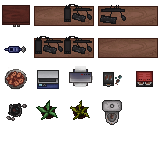
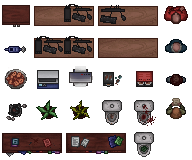
map, sprites
map ported, sprite list expanded

diff --git a/client/src/pages/PorHorror/hooks/useMap/map.ts b/client/src/pages/PorHorror/hooks/useMap/map.ts
@@ -4,14 +4,177 @@ type TPoint = { x: number, y: number };
 export type TMapObject = {
     sprite: ESprite,
     position: TPoint,
-    size: TPoint
+    size: TPoint,
+    angle: number
 };
 
 const getMap = (): TMapObject[] => {
     const map: TMapObject[] = [];
     const tools = new Tools(map);
 
-    tools.fill(1, 1, 8, 5, ESprite.toiletENV, 1, 1);
+    // точка начала, точка конца, спрайт, размер
+    //tools.fill(1, 1, 8, 5, ESprite.toiletENV, 1, 1);
+    //map.push({ sprite: ESprite.toiletENV, position: { x: 0, y: 0 }, size: { x: 1, y: 1 }, angle: 0});
+    // ПОЛЫ
+    // пол холла
+    tools.fill(-3.5, -2.5, 5, 3, ESprite.linoleumPAT, 1, 1, 0);
+    // пол деканата и проем
+    tools.fill(-3.5, 4.5, 5, 9, ESprite.linoleumPAT, 1, 1, 0);
+    map.push({ sprite: ESprite.linoleumPAT, position: { x: 0.5, y: 3.5 }, size: { x: 1, y: 1 }, angle: 0});
+    // пол математики и проем
+    tools.fill(6.5, 1.5, 12, 6, ESprite.linoleumPAT, 1, 1, 0);
+    map.push({ sprite: ESprite.linoleumPAT, position: { x: 5.5, y: 1.5 }, size: { x: 1, y: 1 }, angle: 0});
+    // пол туалета и проем
+    tools.fill(6.5, -2.5, 12, 0, ESprite.slabsPAT, 1, 1, 0);
+    map.push({ sprite: ESprite.linoleumPAT, position: { x: 5.5, y: -1.5 }, size: { x: 1, y: 1 }, angle: 0});
+    // пол библиотеки и проем
+    tools.fill(1.5, -7.5, 7, -4, ESprite.linoleumPAT, 1, 1, 0);
+    map.push({ sprite: ESprite.linoleumPAT, position: { x: 2.5, y: -3.5 }, size: { x: 1, y: 1 }, angle: 0});
+    // пол печатного салона и проем
+    tools.fill(-3.5, -7.5, 0, -4, ESprite.linoleumPAT, 1, 1, 0);
+    map.push({ sprite: ESprite.linoleumPAT, position: { x: -1.5, y: -3.5 }, size: { x: 1, y: 1 }, angle: 0});
+    // пол склада и проем
+    tools.fill(-10.5, -2.5, -5, 0, ESprite.linoleumPAT, 1, 1, 0);
+    map.push({ sprite: ESprite.linoleumPAT, position: { x: -4.5, y: -1.5 }, size: { x: 1, y: 1 }, angle: 0});
+    // пол паскаля и проем
+    tools.fill(-10.5, 1.5, -5, 7, ESprite.linoleumPAT, 1, 1, 0);
+    map.push({ sprite: ESprite.linoleumPAT, position: { x: -4.5, y: 1.5 }, size: { x: 1, y: 1 }, angle: 0});
+
+    // СТЕНЫ
+    // ряды стен
+    tools.fill(-3.5, 9.5, 5, 10, ESprite.oneSideBlockWLL, 1, 1, 90);
+    tools.fill(5.5, 6.5, 6, 9, ESprite.oneSideBlockWLL, 1, 1);
+    tools.fill(5.5, 4.5, 6, 6, ESprite.twoSidesBlockWLL, 1, 1, 90);
+    tools.fill(2.5, 3.5, 5, 4, ESprite.twoSidesBlockWLL, 1, 1);
+    tools.fill(-3.5, 3.5, -1, 4, ESprite.twoSidesBlockWLL, 1, 1);
+    tools.fill(-4.5, 4.5, -4, 7, ESprite.twoSidesBlockWLL, 1, 1, 90);
+    tools.fill(-4.5, 7.5, -4, 9, ESprite.oneSideBlockWLL, 1, 1, 180);
+    tools.fill(-10.5, 7.5, -5, 8, ESprite.oneSideBlockWLL, 1, 1, 90);
+    tools.fill(-11.5, 1.5, -11, 7, ESprite.oneSideBlockWLL, 1, 1, 180);
+    tools.fill(-10.5, 0.5, -5, 1, ESprite.twoSidesBlockWLL, 1, 1);
+    tools.fill(-11.5, -2.5, -11, 0, ESprite.oneSideBlockWLL, 1, 1);
+    tools.fill(-10.5, -3.5, -5, -3, ESprite.oneSideBlockWLL, 1, 1, -90);
+    tools.fill(-4.5, -7.5, -4, -4, ESprite.oneSideBlockWLL, 1, 1, -180);
+    tools.fill(-3.5, -8.5, 0, -8, ESprite.oneSideBlockWLL, 1, 1, -90);
+    tools.fill(0.5, -7.5, 1, -4, ESprite.twoSidesBlockWLL, 1, 1, 90);
+    tools.fill(1.5, -8.5, 7, -8, ESprite.oneSideBlockWLL, 1, 1, -90);
+    tools.fill(7.5, -7.5, 8, -4, ESprite.oneSideBlockWLL, 1, 1);
+    tools.fill(7.5, -3.5, 12, -3, ESprite.oneSideBlockWLL, 1, 1, -90);
+    tools.fill(12.5, -2.5, 13, 0, ESprite.oneSideBlockWLL, 1, 1);
+    tools.fill(6.5, 0.5, 12, 1, ESprite.twoSidesBlockWLL, 1, 1);
+    tools.fill(12.5, 1.5, 13, 6, ESprite.oneSideBlockWLL, 1, 1);
+    tools.fill(6.5, 6.5, 12, 7, ESprite.oneSideBlockWLL, 1, 1, 90);
+    // колонны
+    map.push({ sprite: ESprite.allSidesBlockWLL, position: { x: -1.5, y: 0.5 }, size: { x: 1, y: 1 }, angle: 0});
+    map.push({ sprite: ESprite.allSidesBlockWLL, position: { x: -1.5, y: -1.5 }, size: { x: 1, y: 1 }, angle: 0});
+    map.push({ sprite: ESprite.allSidesBlockWLL, position: { x: 2.5, y: -1.5 }, size: { x: 1, y: 1 }, angle: 0});
+    map.push({ sprite: ESprite.allSidesBlockWLL, position: { x: 2.5, y: 0.5 }, size: { x: 1, y: 1 }, angle: 0});
+    // тройники
+    map.push({ sprite: ESprite.threeSidesBlockWLL, position: { x: -2.5, y: -3.5 }, size: { x: 1, y: 1 }, angle: -90});
+    map.push({ sprite: ESprite.threeSidesBlockWLL, position: { x: -4.5, y: -2.5 }, size: { x: 1, y: 1 }, angle: 0});
+    map.push({ sprite: ESprite.threeSidesBlockWLL, position: { x: -0.5, y: -3.5 }, size: { x: 1, y: 1 }, angle: 90});
+    map.push({ sprite: ESprite.threeSidesBlockWLL, position: { x: 1.5, y: -3.5 }, size: { x: 1, y: 1 }, angle: -90});
+    map.push({ sprite: ESprite.threeSidesBlockWLL, position: { x: 3.5, y: -3.5 }, size: { x: 1, y: 1 }, angle: 90});
+    map.push({ sprite: ESprite.threeSidesBlockWLL, position: { x: 5.5, y: -2.5 }, size: { x: 1, y: 1 }, angle: 0});
+    map.push({ sprite: ESprite.threeSidesBlockWLL, position: { x: 5.5, y: -0.5 }, size: { x: 1, y: 1 }, angle: 180});
+    map.push({ sprite: ESprite.threeSidesBlockWLL, position: { x: -0.5, y: 3.5 }, size: { x: 1, y: 1 }, angle: -90});
+    map.push({ sprite: ESprite.threeSidesBlockWLL, position: { x: 1.5, y: 3.5 }, size: { x: 1, y: 1 }, angle: 90});
+    map.push({ sprite: ESprite.threeSidesBlockWLL, position: { x: 5.5, y: 2.5 }, size: { x: 1, y: 1 }, angle: 180});
+    map.push({ sprite: ESprite.threeSidesBlockWLL, position: { x: -4.5, y: -0.5 }, size: { x: 1, y: 1 }, angle: 180});
+    map.push({ sprite: ESprite.threeSidesBlockWLL, position: { x: -4.5, y: 2.5 }, size: { x: 1, y: 1 }, angle: 180});
+    // внешние углы
+    map.push({ sprite: ESprite.cornerBlockWLL, position: { x: -4.5, y: 0.5 }, size: { x: 1, y: 1 }, angle: 0});
+    map.push({ sprite: ESprite.cornerBlockWLL, position: { x: 5.5, y: 0.5 }, size: { x: 1, y: 1 }, angle: 90});
+    // односторонки
+    map.push({ sprite: ESprite.oneSideBlockWLL, position: { x: 5.5, y: 3.5 }, size: { x: 1, y: 1 }, angle: 0});
+    map.push({ sprite: ESprite.oneSideBlockWLL, position: { x: 0.5, y: -3.5 }, size: { x: 1, y: 1 }, angle: -90});
+    map.push({ sprite: ESprite.oneSideBlockWLL, position: { x: -4.5, y: 3.5 }, size: { x: 1, y: 1 }, angle: 0});
+    map.push({ sprite: ESprite.oneSideBlockWLL, position: { x: 5.5, y: -3.5 }, size: { x: 1, y: 1 }, angle: 90});
+    // двусторонки
+    map.push({ sprite: ESprite.twoSidesBlockWLL, position: { x: -3.5, y: -3.5 }, size: { x: 1, y: 1 }, angle: 0});
+    map.push({ sprite: ESprite.twoSidesBlockWLL, position: { x: 4.5, y: -3.5 }, size: { x: 1, y: 1 }, angle: 0});
+    map.push({ sprite: ESprite.twoSidesBlockWLL, position: { x: 6.5, y: -3.5 }, size: { x: 1, y: 1 }, angle: 0});
+    // тонкие стены
+    map.push({ sprite: ESprite.longSidesWLL, position: { x: 8.5, y: -2.5 }, size: { x: 0.25, y: 1 }, angle: 0});
+    map.push({ sprite: ESprite.threeSidesWLL, position: { x: 8.5, y: -1.5 }, size: { x: 0.25, y: 1 }, angle: 0});
+    map.push({ sprite: ESprite.longSidesWLL, position: { x: 10.5, y: -2.5 }, size: { x: 0.25, y: 1 }, angle: 0});
+    map.push({ sprite: ESprite.threeSidesWLL, position: { x: 10.5, y: -1.5 }, size: { x: 0.25, y: 1 }, angle: 0});
+    // внутренние углы (обязательно поверх других стен)
+    map.push({ sprite: ESprite.innerCornerWLL, position: { x: -4.5, y: -8.5 }, size: { x: 1, y: 1 }, angle: -90});
+    map.push({ sprite: ESprite.innerCornerWLL, position: { x: -4.5, y: -3.5 }, size: { x: 1, y: 1 }, angle: 0});
+    map.push({ sprite: ESprite.innerCornerWLL, position: { x: -4.5, y: -3.5 }, size: { x: 1, y: 1 }, angle: -90});
+    map.push({ sprite: ESprite.innerCornerWLL, position: { x: -4.5, y: -3.5 }, size: { x: 1, y: 1 }, angle: 180});
+    map.push({ sprite: ESprite.innerCornerWLL, position: { x: -11.5, y: -3.5 }, size: { x: 1, y: 1 }, angle: -90});
+    map.push({ sprite: ESprite.innerCornerWLL, position: { x: -11.5, y: 0.5 }, size: { x: 1, y: 1 }, angle: -90});
+    map.push({ sprite: ESprite.innerCornerWLL, position: { x: -11.5, y: 0.5 }, size: { x: 1, y: 1 }, angle: 180});
+    map.push({ sprite: ESprite.innerCornerWLL, position: { x: -11.5, y: 7.5 }, size: { x: 1, y: 1 }, angle: 180});
+    map.push({ sprite: ESprite.innerCornerWLL, position: { x: -4.5, y: 7.5 }, size: { x: 1, y: 1 }, angle: 90});
+    map.push({ sprite: ESprite.innerCornerWLL, position: { x: -4.5, y: 9.5 }, size: { x: 1, y: 1 }, angle: 180});
+    map.push({ sprite: ESprite.innerCornerWLL, position: { x: 5.5, y: 9.5 }, size: { x: 1, y: 1 }, angle: 90});
+    map.push({ sprite: ESprite.innerCornerWLL, position: { x: 5.5, y: 6.5 }, size: { x: 1, y: 1 }, angle: 180});
+    map.push({ sprite: ESprite.innerCornerWLL, position: { x: 12.5, y: 6.5 }, size: { x: 1, y: 1 }, angle: 90});
+    map.push({ sprite: ESprite.innerCornerWLL, position: { x: 12.5, y: 0.5 }, size: { x: 1, y: 1 }, angle: 0});
+    map.push({ sprite: ESprite.innerCornerWLL, position: { x: 12.5, y: 0.5 }, size: { x: 1, y: 1 }, angle: 90});
+    map.push({ sprite: ESprite.innerCornerWLL, position: { x: 12.5, y: -3.5 }, size: { x: 1, y: 1 }, angle: 0});
+    map.push({ sprite: ESprite.innerCornerWLL, position: { x: 7.5, y: -3.5 }, size: { x: 1, y: 1 }, angle: 90});
+    map.push({ sprite: ESprite.innerCornerWLL, position: { x: 7.5, y: -8.5 }, size: { x: 1, y: 1 }, angle: 0});
+    map.push({ sprite: ESprite.innerCornerWLL, position: { x: 0.5, y: -8.5 }, size: { x: 1, y: 1 }, angle: 0});
+    map.push({ sprite: ESprite.innerCornerWLL, position: { x: 0.5, y: -8.5 }, size: { x: 1, y: 1 }, angle: -90});
+    map.push({ sprite: ESprite.innerCornerWLL, position: { x: 0.5, y: -3.5 }, size: { x: 1, y: 1 }, angle: 90});
+    map.push({ sprite: ESprite.innerCornerWLL, position: { x: 0.5, y: -3.5 }, size: { x: 1, y: 1 }, angle: 180});
+    map.push({ sprite: ESprite.innerCornerWLL, position: { x: 5.5, y: -3.5 }, size: { x: 1, y: 1 }, angle: 0});
+    map.push({ sprite: ESprite.innerCornerWLL, position: { x: 5.5, y: -3.5 }, size: { x: 1, y: 1 }, angle: -90});
+    map.push({ sprite: ESprite.innerCornerWLL, position: { x: 5.5, y: 0.5 }, size: { x: 1, y: 1 }, angle: 180});
+    map.push({ sprite: ESprite.innerCornerWLL, position: { x: 5.5, y: 3.5 }, size: { x: 1, y: 1 }, angle: 0});
+    map.push({ sprite: ESprite.innerCornerWLL, position: { x: 5.5, y: 3.5 }, size: { x: 1, y: 1 }, angle: 90});
+    // СТАТИЧЕСКИЕ ОБЪЕКТЫ
+    // паскаль
+    map.push({ sprite: ESprite.tableLeftENV, position: { x: -10, y: 5.5 }, size: { x: 2, y: 1 }, angle: 180});
+    map.push({ sprite: ESprite.tableBothENV, position: { x: -9, y: 4.5 }, size: { x: 2, y: 1 }, angle: 0});
+    map.push({ sprite: ESprite.tableBothENV, position: { x: -9, y: 2.5 }, size: { x: 2, y: 1 }, angle: 0});
+    map.push({ sprite: ESprite.tableBothENV, position: { x: -6, y: 4.5 }, size: { x: 2, y: 1 }, angle: 0});
+    map.push({ sprite: ESprite.tableBothENV, position: { x: -6, y: 2.5 }, size: { x: 2, y: 1 }, angle: 0});
+    // склад
+    map.push({ sprite: ESprite.tableEmptyENV, position: { x: -6.5, y: -1 }, size: { x: 2, y: 1 }, angle: 90});
+    map.push({ sprite: ESprite.tableEmptyENV, position: { x: -8.5, y: -2 }, size: { x: 2, y: 1 }, angle: 90});
+    map.push({ sprite: ESprite.tableEmptyENV, position: { x: -10.5, y: -1 }, size: { x: 2, y: 1 }, angle: 90});
+    map.push({ sprite: ESprite.blackCoffieMachineENV, position: { x: -10.5, y: -0.5 }, size: { x: 1, y: 1 }, angle: 90});
+    // печатный салон
+    map.push({ sprite: ESprite.tableEmptyENV, position: { x: -3, y: -6.5 }, size: { x: 2, y: 1 }, angle: 0});
+    map.push({ sprite: ESprite.tableEmptyENV, position: { x: -0.5, y: -6 }, size: { x: 2, y: 1 }, angle: 90});
+    map.push({ sprite: ESprite.xeroxENV, position: { x: -0.5, y: -6.5 }, size: { x: 1, y: 1 }, angle: 90});
+    map.push({ sprite: ESprite.printerENV, position: { x: -2.5, y: -6.5 }, size: { x: 1, y: 1 }, angle: 0});
+    map.push({ sprite: ESprite.printerENV, position: { x: -3.5, y: -6.5 }, size: { x: 1, y: 1 }, angle: 0});
+    map.push({ sprite: ESprite.bookShelf2ENV, position: { x: -3.5, y: -5 }, size: { x: 2, y: 1 }, angle: 90});
+    // библиотека
+    map.push({ sprite: ESprite.bookShelf1ENV, position: { x: 6.5, y: -7 }, size: { x: 2, y: 1 }, angle: -90});
+    map.push({ sprite: ESprite.bookShelf1ENV, position: { x: 4.5, y: -6 }, size: { x: 2, y: 1 }, angle: 90});
+    map.push({ sprite: ESprite.bookShelf1ENV, position: { x: 2.5, y: -7 }, size: { x: 2, y: 1 }, angle: 90});
+    // туалет
+    map.push({ sprite: ESprite.toiletENV, position: { x: 7.5, y: -2.5 }, size: { x: 1, y: 1 }, angle: 180});
+    map.push({ sprite: ESprite.gradeBooksToiletENV, position: { x: 9.5, y: -2.5 }, size: { x: 1, y: 1 }, angle: 180});
+    map.push({ sprite: ESprite.bloodyToiletENV, position: { x: 11.5, y: -2.5 }, size: { x: 1, y: 1 }, angle: 180});
+    map.push({ sprite: ESprite.trashCanENV, position: { x: 6.5, y: -0.5 }, size: { x: 1, y: 1 }, angle: 0});
+    // математика
+    map.push({ sprite: ESprite.tableEmptyENV, position: { x: 7, y: 2.5 }, size: { x: 2, y: 1 }, angle: 0});
+    map.push({ sprite: ESprite.tableEmptyENV, position: { x: 7, y: 4.5 }, size: { x: 2, y: 1 }, angle: 0});
+    map.push({ sprite: ESprite.tableEmptyENV, position: { x: 10, y: 2.5 }, size: { x: 2, y: 1 }, angle: 0});
+    map.push({ sprite: ESprite.tableEmptyENV, position: { x: 10, y: 4.5 }, size: { x: 2, y: 1 }, angle: 0});
+    map.push({ sprite: ESprite.cookiesENV, position: { x: 6.5, y: 2.5 }, size: { x: 1, y: 1 }, angle: 0});
+    // деканат
+    map.push({ sprite: ESprite.tableEmptyENV, position: { x: -1, y: 4.5 }, size: { x: 2, y: 1 }, angle: 0});
+    map.push({ sprite: ESprite.tableEmptyENV, position: { x: 0, y: 6.5 }, size: { x: 2, y: 1 }, angle: 0});
+    map.push({ sprite: ESprite.tableLeftENV, position: { x: 0, y: 7.5 }, size: { x: 2, y: 1 }, angle: 180});
+    map.push({ sprite: ESprite.tableEmptyENV, position: { x: 1.5, y: 7 }, size: { x: 2, y: 1 }, angle: 90});
+    map.push({ sprite: ESprite.bookShelf2ENV, position: { x: 4, y: 8.5 }, size: { x: 2, y: 1 }, angle: 0});
+    map.push({ sprite: ESprite.wardrobeENV, position: { x: -3.5, y: 8.5 }, size: { x: 1, y: 1 }, angle: 0});
+    map.push({ sprite: ESprite.wardrobeENV, position: { x: -2.5, y: 8.5 }, size: { x: 1, y: 1 }, angle: 0});
+    // нпс
+    map.push({ sprite: ESprite.nadezhdaENV, position: { x: 0.5, y: 8.5 }, size: { x: 1, y: 1 }, angle: 180});
+    map.push({ sprite: ESprite.fizrukENV, position: { x: -5.5, y: -0.5 }, size: { x: 1, y: 1 }, angle: 180});
+    map.push({ sprite: ESprite.allaENV, position: { x: 9.5, y: 5.5 }, size: { x: 1, y: 1 }, angle: 180});
+    map.push({ sprite: ESprite.pascalENV, position: { x: -9.5, y: 6.5 }, size: { x: 1, y: 1 }, angle: 180});
+
 
     return map;
 };

diff --git a/client/src/game/resources/sprites.ts b/client/src/game/resources/sprites.ts
@@ -18,6 +18,15 @@ export enum ESprite {
     potPlantENV = 'potPlantENV',
     dryPotPlantENV = 'dryPotPlantENV',
     toiletENV = 'toiletENV',
+    gradeBooksToiletENV = 'gradeBooksToiletENV',
+    bloodyToiletENV = 'bloodyToiletENV',
+    bookShelf1ENV = 'bookShelf1ENV',
+    bookShelf2ENV = 'bookShelf2ENV',
+    // env npcs
+    nadezhdaENV = 'nadezhdaENV',
+    allaENV = 'allaENV',
+    fizrukENV = 'fizrukENV',
+    pascalENV = 'pascalENV',
     // ITEMS
     cookieITM = 'cookieITM',
     horizPhotoITM = 'horizPhotoITM',
@@ -29,17 +38,19 @@ export enum ESprite {
     // PATTERNS
     linoleumPAT = 'linoleumPAT',
     slabsPAT = 'slabsPAT',
-    // WALLS - walls
+    // WALLS - small
     allSidesWLL = 'allSidesWLL',
     longSidesWLL = 'longSidesWLL',
     threeSidesWLL = 'threeSidesWLL',
     longSideWLL = 'longSideWLL',
     cornerWLL = 'cornerWLL',
-    // WALLS - columns
-    allSidesColumnWLL = 'allSidesColumnWLL',
-    cornerColumnWLL = 'cornerColumnWLL',
-    threeSidesColumnWLL = 'threeSidesColumnWLL'
-
+    // WALLS - blocks
+    allSidesBlockWLL = 'allSidesColumnWLL',
+    cornerBlockWLL = 'cornerColumnWLL',
+    threeSidesBlockWLL = 'threeSidesColumnWLL',
+    twoSidesBlockWLL = 'twoSidesBlockWLL',
+    oneSideBlockWLL = 'oneSideBlockWLL',
+    innerCornerWLL = 'innerCornerWLL'
 }
 
 export const getSprite = (image: EImage, offset: number[], size: number[]) => ({
@@ -66,6 +77,15 @@ export const sprites = {
     [ESprite.potPlantENV]: getSprite(EImage.environment, [32, 96], [32, 32]),
     [ESprite.dryPotPlantENV]: getSprite(EImage.environment, [64, 96], [32, 32]),
     [ESprite.toiletENV]: getSprite(EImage.environment, [96, 96], [32, 32]),
+    [ESprite.gradeBooksToiletENV]: getSprite(EImage.environment, [128, 128], [32, 32]),
+    [ESprite.bloodyToiletENV]: getSprite(EImage.environment, [128, 96], [32, 32]),
+    [ESprite.bookShelf1ENV]: getSprite(EImage.environment, [0, 128], [64, 32]),
+    [ESprite.bookShelf2ENV]: getSprite(EImage.environment, [64, 128], [64, 32]),
+    // ENV - NPCs
+    [ESprite.fizrukENV]: getSprite(EImage.environment, [160, 0], [32, 32]),
+    [ESprite.pascalENV]: getSprite(EImage.environment, [160, 32], [32, 32]),
+    [ESprite.nadezhdaENV]: getSprite(EImage.environment, [160, 64], [32, 32]),
+    [ESprite.allaENV]: getSprite(EImage.environment, [160, 96], [32, 32]),
     // ITEMS
     [ESprite.horizPhotoITM]: getSprite(EImage.items, [0, 0], [16, 16]),
     [ESprite.verticPhotoITM]: getSprite(EImage.items, [16, 0], [16, 16]),
@@ -83,8 +103,11 @@ export const sprites = {
     [ESprite.threeSidesWLL]: getSprite(EImage.walls, [16, 0], [8, 32]),
     [ESprite.longSideWLL]: getSprite(EImage.walls, [24, 0], [8, 32]),
     [ESprite.cornerWLL]: getSprite(EImage.walls, [32, 0], [8, 32]),
-    // WALLS - columns
-    [ESprite.allSidesColumnWLL]: getSprite(EImage.walls, [0, 0], [32, 32]),
-    [ESprite.cornerColumnWLL]: getSprite(EImage.walls, [32, 32], [32, 32]),
-    [ESprite.threeSidesColumnWLL]: getSprite(EImage.walls, [0, 64], [32, 32]),
+    // WALLS - blocks
+    [ESprite.allSidesBlockWLL]: getSprite(EImage.walls, [0, 32], [32, 32]),
+    [ESprite.cornerBlockWLL]: getSprite(EImage.walls, [32, 32], [32, 32]),
+    [ESprite.threeSidesBlockWLL]: getSprite(EImage.walls, [0, 64], [32, 32]),
+    [ESprite.twoSidesBlockWLL]: getSprite(EImage.walls, [32, 64], [32, 32]),
+    [ESprite.oneSideBlockWLL]: getSprite(EImage.walls, [0, 96], [32, 32]),
+    [ESprite.innerCornerWLL]: getSprite(EImage.walls, [32, 96], [32, 32]),
 }

diff --git a/client/src/pages/PorHorror/hooks/useMap/Tools/Tools.ts b/client/src/pages/PorHorror/hooks/useMap/Tools/Tools.ts
@@ -7,7 +7,7 @@ class Tools {
         this.map = map;
     }
 
-    fill(aX: number, aY: number, bX: number, bY: number, sprite: ESprite, sizeX: number, sizeY: number): void {
+    fill(aX: number, aY: number, bX: number, bY: number, sprite: ESprite, sizeX: number, sizeY: number, angle: number = 0): void {
         const x1 = Math.min(aX, bX);
         const y1 = Math.min(aY, bY);
         const x2 = Math.max(aX, bX);
@@ -17,7 +17,7 @@ class Tools {
 
         for (let x = x1; x < x2; x += sx) {
             for (let y = y1; y < y2; y += sy) {
-                this.map.push({ sprite, position: { x, y }, size: { x: sizeX, y: sizeY} });
+                this.map.push({ sprite, position: { x, y }, size: { x: sizeX, y: sizeY}, angle });
             }
         }
     }
